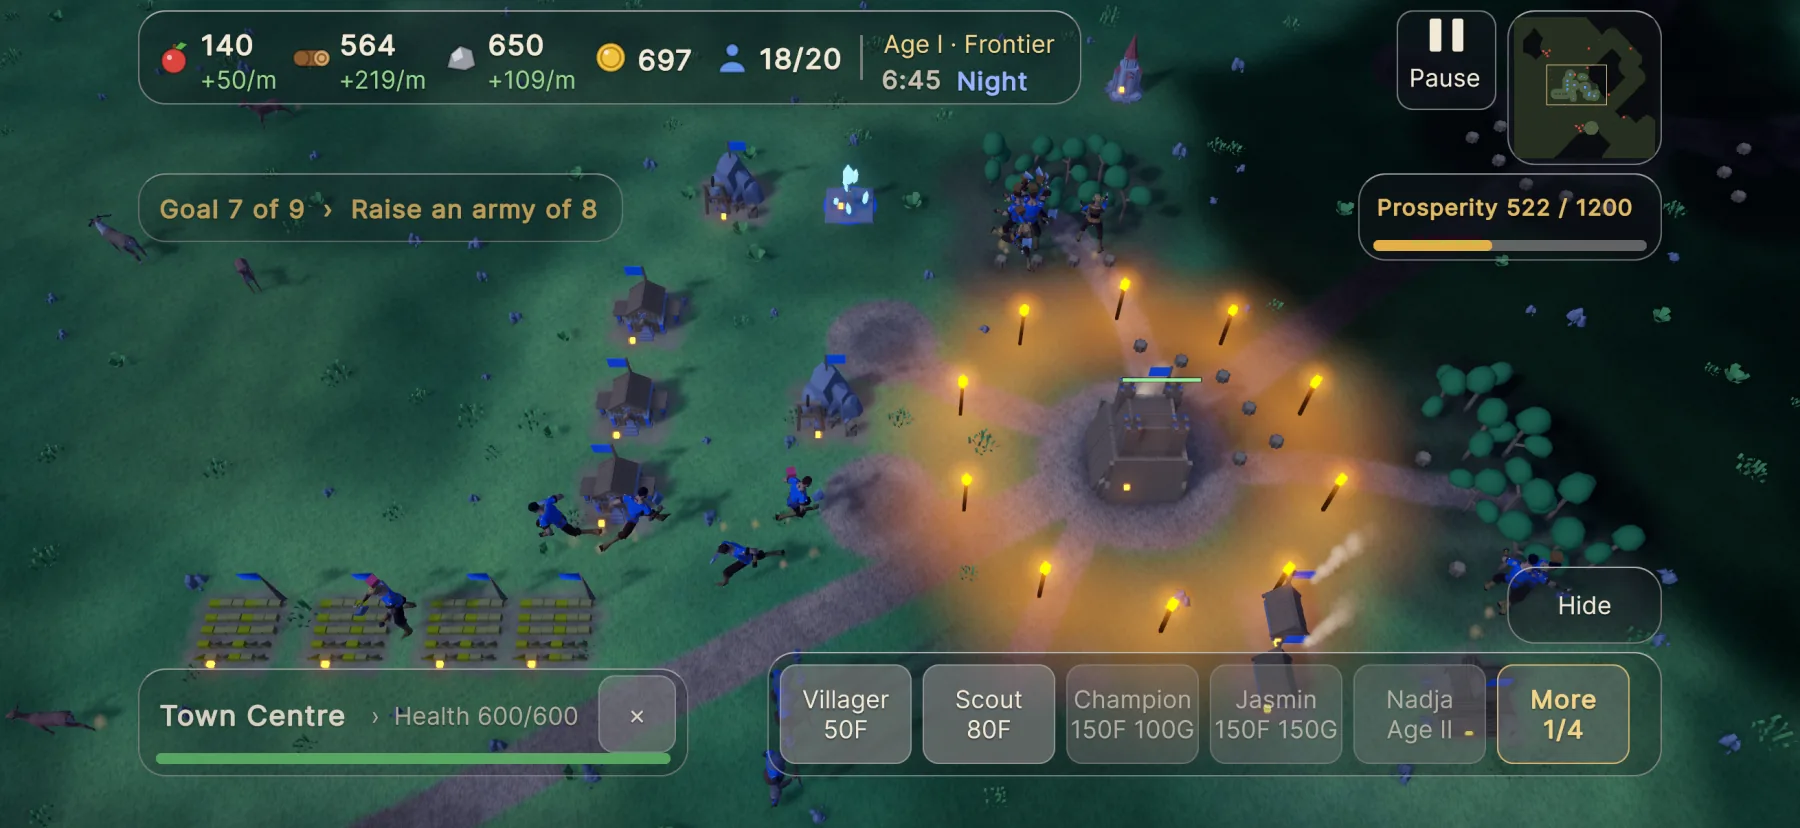
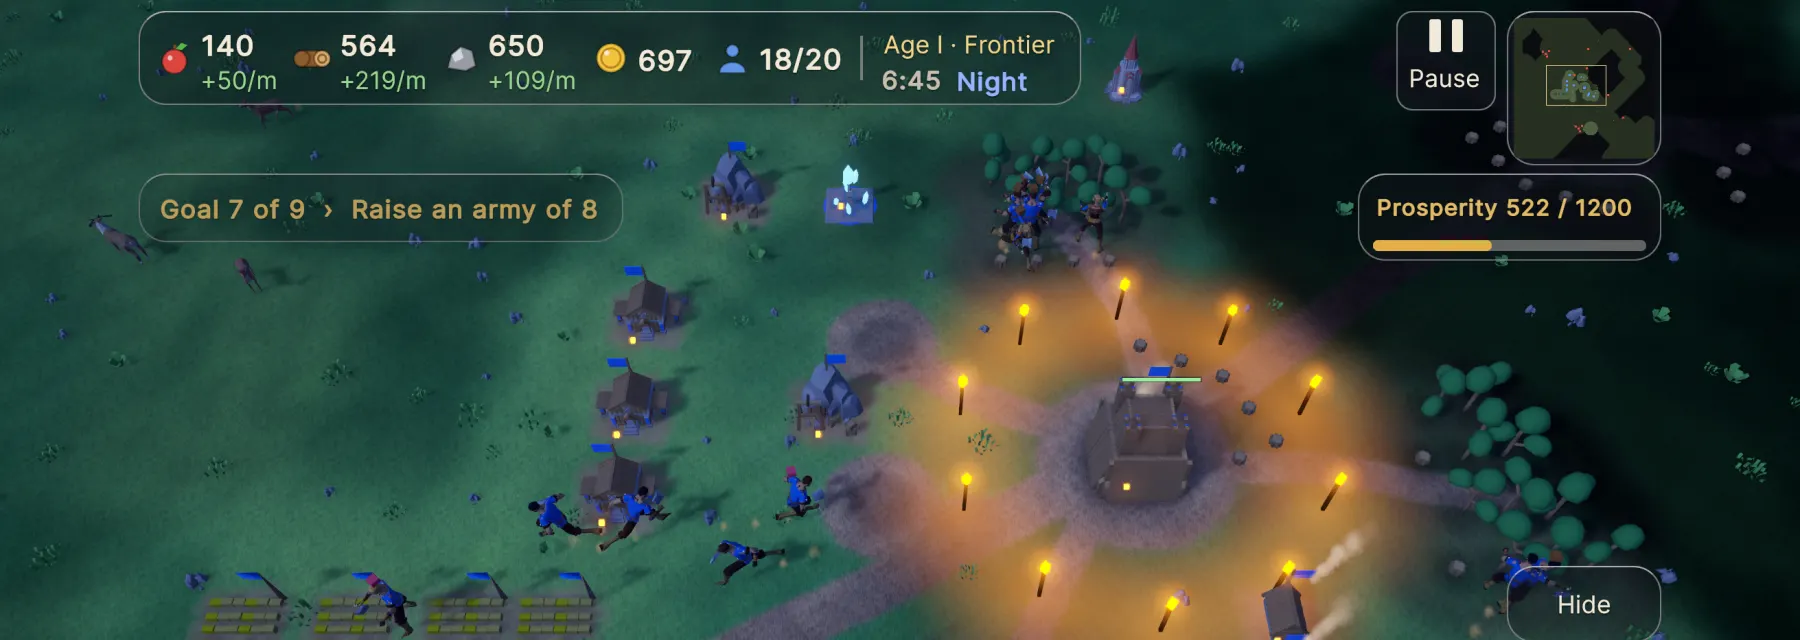
Keep the shots clear of the old title screen and the Age II button

diff --git a/index.html b/index.html
@@ -180,7 +180,6 @@
       <li><a href="images/random-map.webp"><img src="images/random-map.webp" width="1200" height="658" loading="lazy" alt="A wooden Town Centre in a pool of sunlight on a random map, with spearmen on one side, villagers on the other, and a large rock and small trees nearby."></a><p>A random map, in the first seconds of a match. The fog is still close.</p></li>
       <li class="full"><a href="images/build-menu.webp"><img src="images/build-menu.webp" width="1500" height="544" loading="lazy" alt="The game with a villager selected. A row of large buttons offers House, Lumber Camp, Mining Camp, Farm and Barracks, and a note explains that a House gives room for 5 more population and costs 30 wood."></a><p>Pick a villager and the build menu opens, with a note on what each building gives you.</p></li>
       <li class="wide"><a href="images/team-colours.webp"><img src="images/team-colours.webp" width="1500" height="750" loading="lazy" alt="Forts, a house and soldiers shown side by side in red and in blue."></a><p>Up close, from our art sheet: the same town in two teams' colours.</p></li>
-      <li class="wide"><a href="images/title-screen.webp"><img src="images/title-screen.webp" width="1200" height="552" loading="lazy" alt="The game's title screen, with the name in gold on a dark, warm background and a New Match button."></a><p>The title screen, where every match begins.</p></li>
     </ul>
   </div>
 </section>
@@ -189,7 +188,7 @@
   <div class="wrap">
     <h2 id="h-iphone">Built for iPhone</h2>
     <p class="intro">Crownfall is made to be played in landscape on a phone, with no mouse and no tiny menus. The panels are glass, so the battle shows through, and they stay clear of the Dynamic Island and the home bar.</p>
-    <figure class="device"><div class="screen"><img src="images/town-at-night.webp" width="1800" height="827" loading="lazy" alt="Crownfall on an iPhone in landscape, six minutes into a Prosperity match at night. Resources run along the top, the minimap sits top right, and the Town Centre's commands fill a row of large buttons along the bottom."></div></figure>
+    <figure class="device"><div class="screen"><img src="images/town-at-night.webp" width="1800" height="640" loading="lazy" alt="Crownfall on an iPhone in landscape, six minutes into a Prosperity match at night, with torches burning round the town. Resources run along the top and the minimap sits top right."></div></figure>
     <p class="fine center">Six minutes into a Prosperity match, on our own iPhone.</p>
     <dl class="controls">
       <div><dt>Look around</dt><dd>Drag one finger. Pinch to zoom, twist two fingers to turn, or tap the minimap to jump there.</dd></div>
